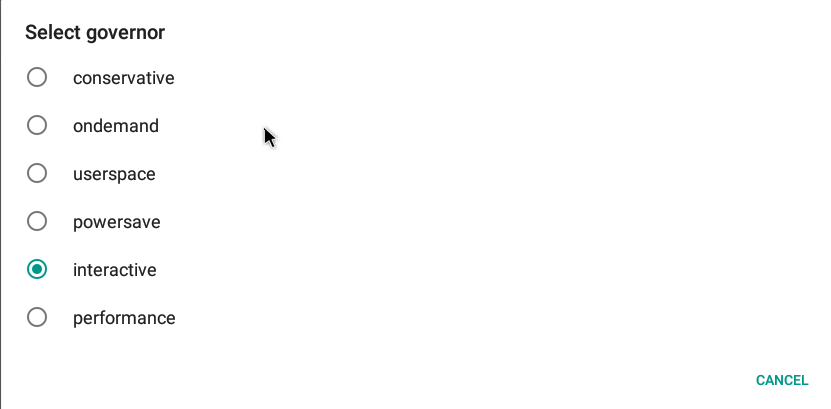
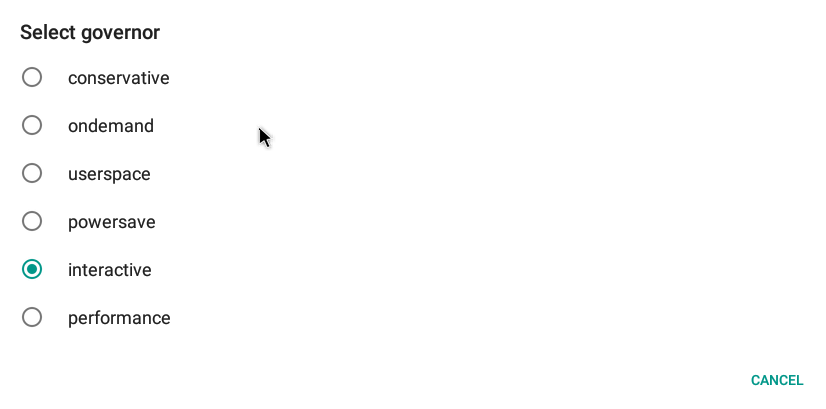
fix images

diff --git a/docs/07_Android/01_UDOO_Android_Settings.md b/docs/07_Android/01_UDOO_Android_Settings.md
@@ -2,12 +2,11 @@
 
 Since the 6.0 Marshmallow version, the UDOO Android distro comes with a custom `UDOO` section in Setting App to configure custom options for UDOO boards.
 
-![UDOO Settings](../img/android_setting/setting_udoo.png)
-
+<img style="width:600px; height:338px" src="../img/android_setting/setting_udoo.png">  
 
 In `General` you can find misc custom options to set video output, audio device, processor's governor, OTG communication and reboot Android in recovery.
 
-![UDOO General Settings](../img/android_setting/setting_udoo_general.png)
+<img style="width:600px; height:338px" src="../img/android_setting/setting_udoo_general.png">
 
 ## Select Video Output
 
@@ -19,7 +18,7 @@ In UDOO QUAD/DUAL you have three options as video output.
 
 The default one at boot is HDMI.
 
-![Video Output](../img/android_setting/setting_udoo_vidout.png)
+<img style="width:500px; height:281px" src="../img/android_setting/setting_udoo_vidout.png">
 
 ## Enable internal Arduino Communication (ADK)
 
@@ -31,7 +30,7 @@ Visit the `External OTG connection to i.MX6` and `OTG connection between i.MX6 a
 
 Since the 6.0 Marshmallow version the default option let UDOO's OTG bus communicate with and external PC (ADB). Check this option to make an Adroid App communicate with the UDOO's Arduino&trade; DUE processor.
 
-![OTG](../img/android_setting/setting_udoo_intotg.png)
+<img src="../img/android_setting/setting_udoo_intotg.png">
 
 Visit the [Switch Between Adb Debug and ADK Connection](../Android/Switch_Between_Adb_Debug_and_ADK_Connection.html) to find more info about how to change the iMX^ USB OTG physically connection.
 
@@ -47,8 +46,7 @@ You can select a CPU governor among one of:
  * `interactive`: dynamically scales CPU clockspeed in response to the workload placed on the CPU by the user. Significantly more responsive than ondemand.
  * `performance`:	Run the cpu at max frequency.
 
-![Governor](../img/android_setting/setting_udoo_gov.png)
-
+<img style="width:500px; height:281px" src="../img/android_setting/setting_udoo_gov.png">
 
 ## Select Audio device
 
@@ -57,7 +55,7 @@ You can select the Output Audio Device among one of:
  * HDMI (imx-hdmi-soc) : audio from the HDMI monitor
  * OnBoard (vt1613-audio) : audio from the green speaker 3.5mm jack.
 
-![AudioDevice](../img/android_setting/setting_udoo_auddev.png)
+<img style="width:500px; height:281px" src="../img/android_setting/setting_udoo_auddev.png">
 
 You need to reboot Android to apply this change.
 
@@ -68,7 +66,7 @@ Since Android 6.0 Marshmallow version the UDOO Android distro provides [TWRP rec
 
 Booting Android in Recovery mode allow you to install zip update package. For example you can install the [Open GApps](http://opengapps.org/) packages to install Google Apps.
 
-![Recovery](../img/android_setting/setting_udoo_recovery.png)
+<img src="../img/android_setting/setting_udoo_recovery.png">
 
 You can find an exhaustive guide of [how to install Gapps](../Android/How_To_Install_Gapps_On_UDOO_Running_Android.html) here.
 
